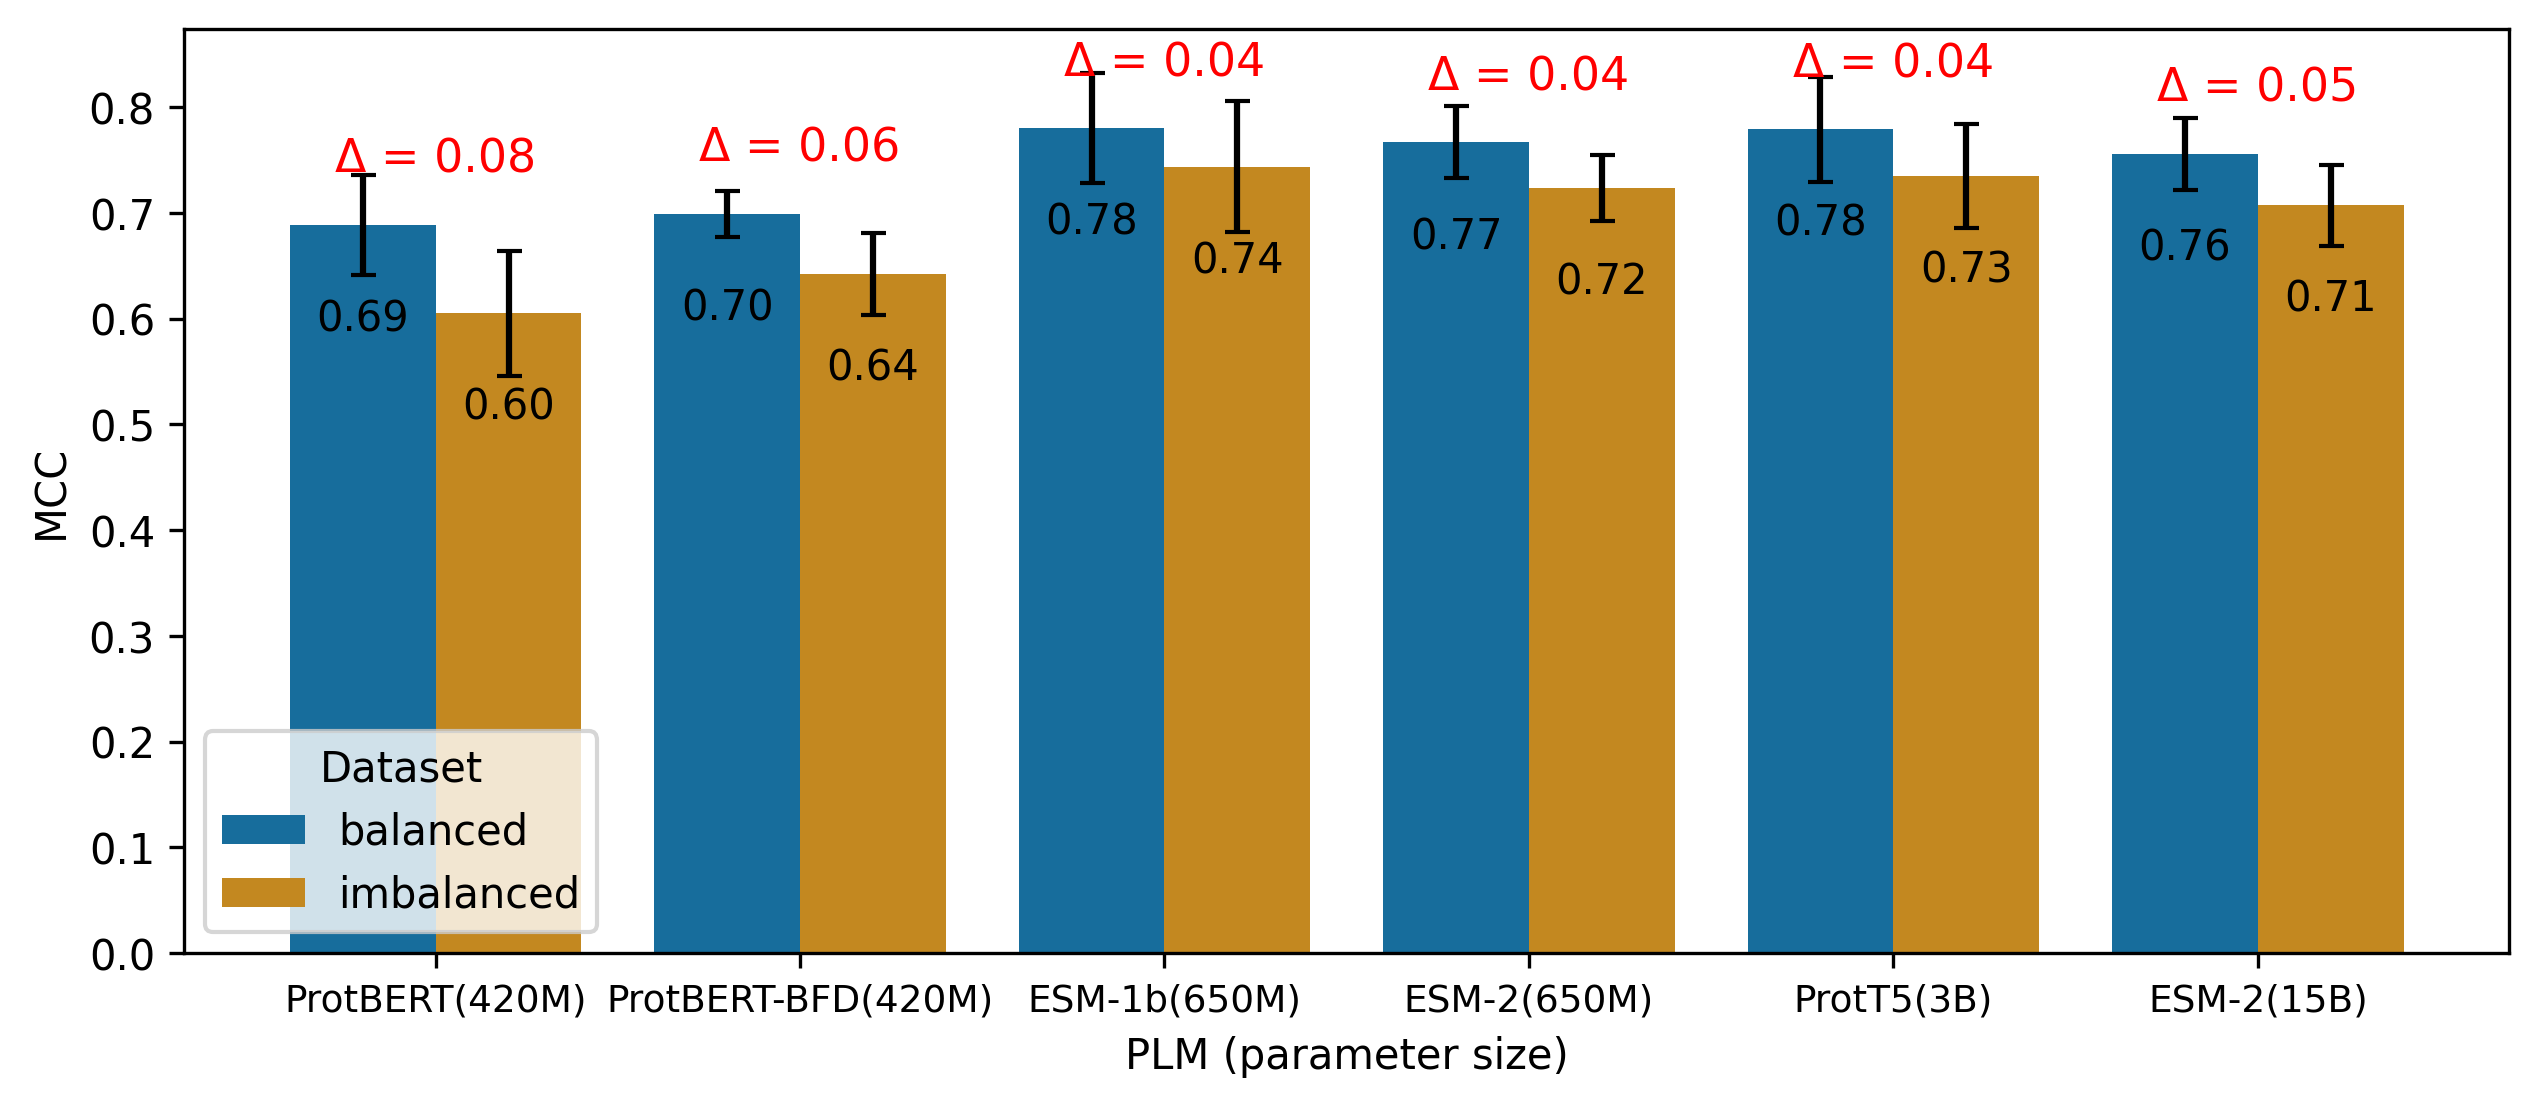
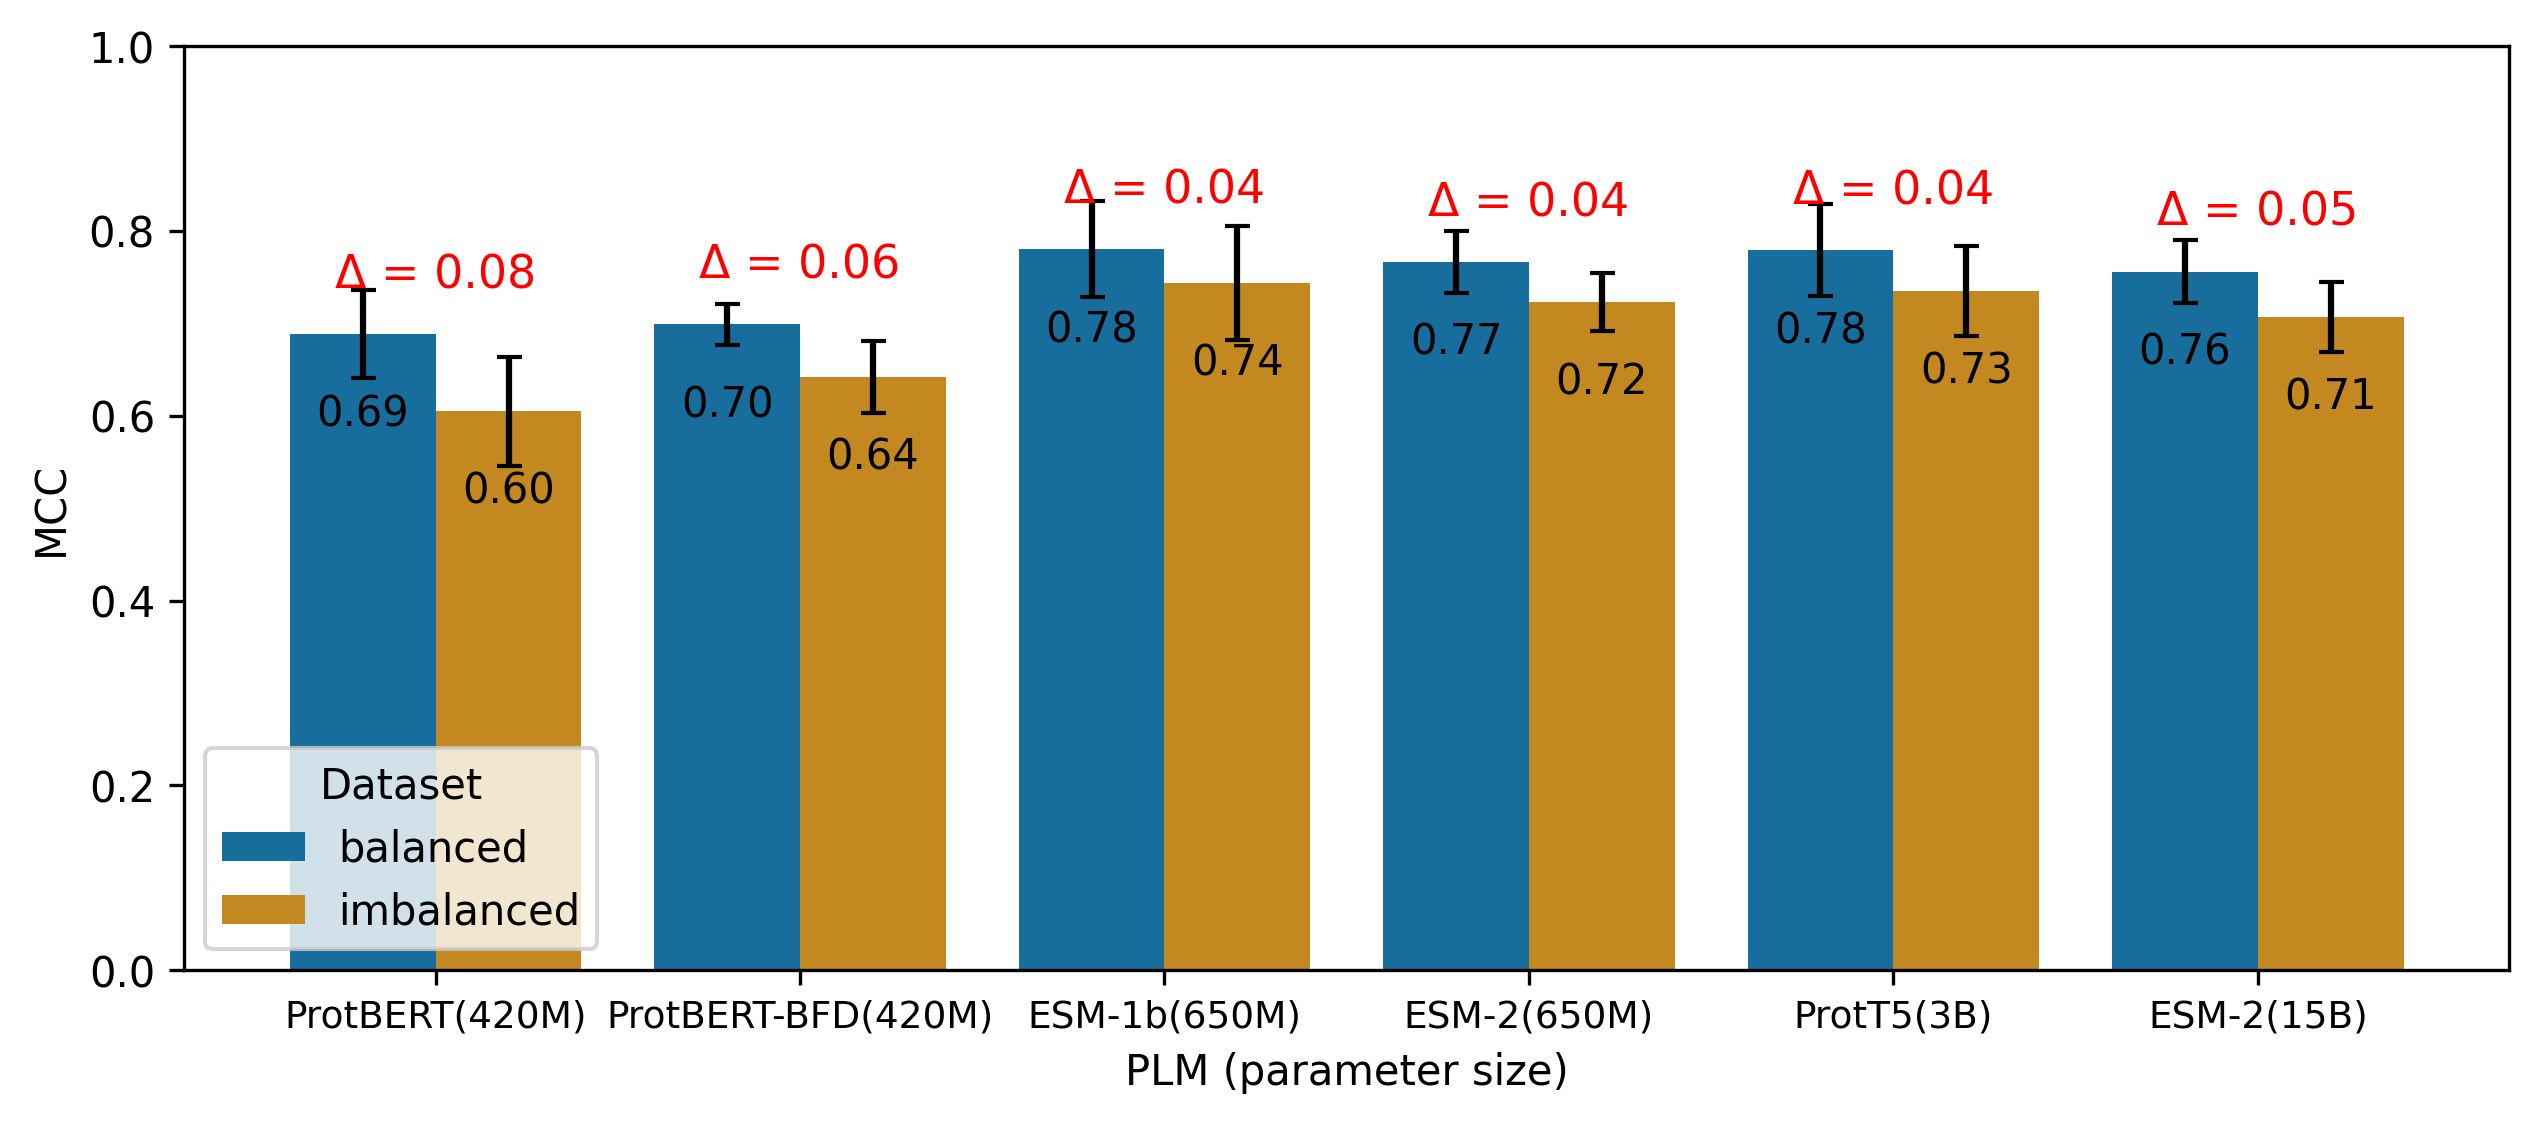
before ankh

diff --git a/make_tables_bal_imb_2.py b/make_tables_bal_imb_2.py
@@ -224,6 +224,16 @@ finetuned_df = df[df['Representation'] == 'finetuned']
 mean_mcc = finetuned_df.groupby(['plm_size', 'Dataset'])['MCC_mean'].mean().reset_index()
 std_mcc = df.groupby(['plm_size', 'Dataset'])['MCC_std'].mean().reset_index()
 
+df['plm_size'] = mean_mcc['plm_size'].astype('category')
+df['Dataset'] = mean_mcc['Dataset'].astype('category')
+
+diff_mcc = mean_mcc.pivot_table(values='MCC_mean', index='plm_size', columns='Dataset').reset_index()
+diff_mcc['MCC_diff'] = diff_mcc['imbalanced'] - diff_mcc['balanced']
+
+average_mcc_diff = diff_mcc['MCC_diff'].mean()
+
+print(f"Average MCC difference: {average_mcc_diff}")
+
 # delta_mcc = mean_mcc[mean_mcc['Dataset'] == 'imbalanced']['MCC_mean'] - mean_mcc[mean_mcc['Dataset'] == 'balanced']['MCC_mean']
 delta_mcc = mean_mcc[mean_mcc['Dataset'] == 'imbalanced'][['plm_size', 'MCC_mean']].reset_index(drop=True)
 frozen_mcc_values = mean_mcc[mean_mcc['Dataset'] == 'balanced'][['plm_size', 'MCC_mean']].reset_index(drop=True)
@@ -282,6 +292,18 @@ frozen_df = df[df['Representation'] == 'frozen']
 mean_mcc = frozen_df.groupby(['plm_size', 'Dataset'])['MCC_mean'].mean().reset_index()
 std_mcc = df.groupby(['plm_size', 'Dataset'])['MCC_std'].mean().reset_index()
 
+df['plm_size'] = mean_mcc['plm_size'].astype('category')
+df['Dataset'] = mean_mcc['Dataset'].astype('category')
+
+diff_mcc = mean_mcc.pivot_table(values='MCC_mean', index='plm_size', columns='Dataset').reset_index()
+diff_mcc['MCC_diff'] = diff_mcc['balanced'] - diff_mcc['imbalanced']
+
+average_mcc_diff = diff_mcc['MCC_diff'].mean()
+
+print(f"Average MCC difference: {average_mcc_diff}")
+
+
+
 # delta_mcc = mean_mcc[mean_mcc['Dataset'] == 'imbalanced']['MCC_mean'] - mean_mcc[mean_mcc['Dataset'] == 'balanced']['MCC_mean']
 delta_mcc = mean_mcc[mean_mcc['Dataset'] == 'balanced'][['plm_size', 'MCC_mean']].reset_index(drop=True)
 frozen_mcc_values = mean_mcc[mean_mcc['Dataset'] == 'imbalanced'][['plm_size', 'MCC_mean']].reset_index(drop=True)
@@ -314,7 +336,7 @@ plt.ylabel("MCC")
 plt.xticks(fontsize=9)
 
 # Add legend
-plt.legend(title="Dataset")
+plt.legend(title="Dataset", loc='lower left')
 
 # Add error bars
 for i, p in enumerate(barplot.patches):
@@ -327,6 +349,9 @@ for i, p in enumerate(barplot.patches):
 show_values_on_bars(barplot)
 
 show_delta_on_bars(barplot, delta_mcc_sorted['MCC_mean'].values)
+
+# y limit to 1
+plt.ylim(0, 1)
 
 # Display the plot
 # plt.show()
